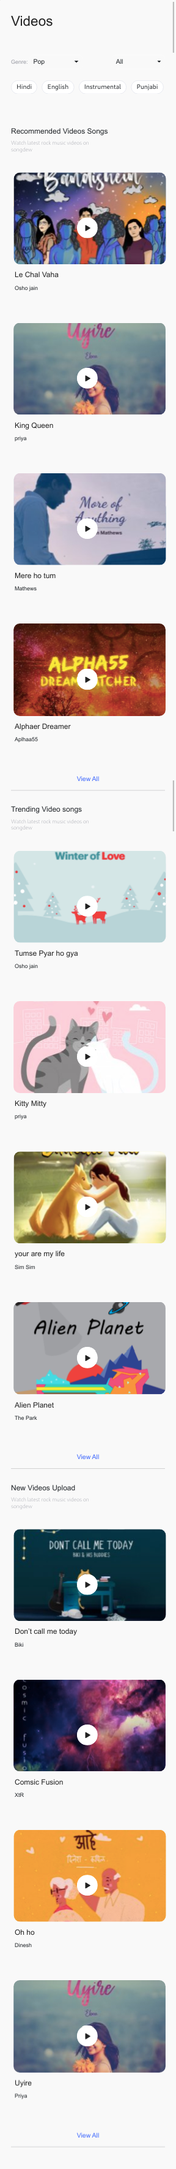
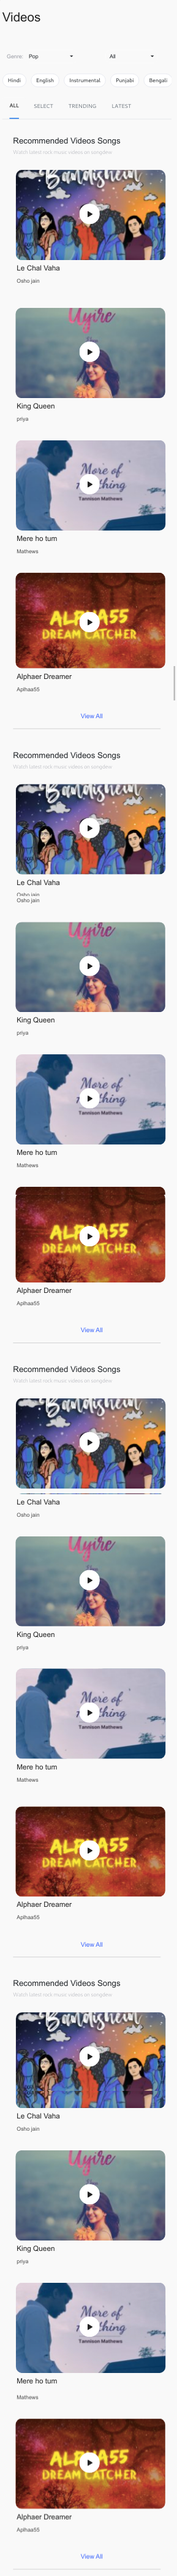
nav and images

diff --git a/Task-2/css/styles.css b/Task-2/css/styles.css
@@ -36,21 +36,15 @@ p.genre {
 // margin-right */
 
 span.bg-light {
-  background-color: #eff1f4 !important;
+  background-color: rgba(255, 255, 255, 1) !important;
   font-weight: 400;
   margin-right: 10px;
   padding: 5px 11px;
+  line-height: 18px;
   border: 1px solid #e0e3eb;
 }
 
-span.nav {
-  background-color: white !important;
-  font-weight: 400;
-  font-size: 14px;
-  line-height: 18px;
-}
-
-span.nav :hover {
+span.bg-light :hover {
   background-color: #eff1f4;
 }
 
@@ -201,7 +195,6 @@ p.color {
 a.nav-link.active {
   border: none;
   background-color: #f9f9f9 !important;
-  /* font-weight: bolder; */
   color: black !important;
 }
 
@@ -234,6 +227,9 @@ div.sort2 {
   display: none !important;
 }
 
+a.nav-link {
+  color: rgba(34, 34, 34, 1);
+}
 /* // Small devices (landscape phones, 576px and up) */
 @media (min-width: 300px) {
   /* body {
@@ -271,6 +267,21 @@ div.sort2 {
   button.view {
     font-weight: 500;
     font-size: 14px;
+  }
+
+  /* NAV */
+  a.nav-link {
+    font-size: 12px;
+  }
+  span.bg-light {
+    font-size: 12px;
+  }
+  a.dropdown-item {
+    font-size: 12px;
+    padding-left: 8px;
+  }
+  button.all {
+    font-size: 12px;
   }
 }
 
@@ -311,6 +322,21 @@ div.sort2 {
     font-weight: 500;
     font-size: 12px;
   }
+
+  /* NAV */
+  a.nav-link {
+    font-size: 14px;
+  }
+  span.bg-light {
+    font-size: 11px;
+  }
+  a.dropdown-item {
+    font-size: 11px;
+    padding-left: 8px;
+  }
+  button.all {
+    font-size: 11px;
+  }
 }
 
 /* // Large devices (desktops, 992px and up) */
@@ -346,6 +372,21 @@ div.sort2 {
   }
   button.view {
     font-weight: 500;
+    font-size: 12px;
+  }
+
+  /* NAV */
+  a.nav-link {
+    font-size: 14px;
+  }
+  span.bg-light {
+    font-size: 12px;
+  }
+  a.dropdown-item {
+    font-size: 12px;
+    padding-left: 8px;
+  }
+  button.all {
     font-size: 12px;
   }
 }

diff --git a/Task-2/index.html b/Task-2/index.html
@@ -19,16 +19,10 @@
   <div class="container main-block">
 
     <div class="text-start">
-      <h3 class="video-text my-1">Videos</h3>
+      <h3 class="video-text my-1 mt-3">Videos</h3>
     </div>
 
-
-
-
-
-
     <div class="row mt-4">
-
       <div class="col-10 tab1">
         <ul class="nav nav-tabs">
           <li class="nav-item">
@@ -49,7 +43,7 @@
 
       <div class="col-2">
         <div class="d-flex align-items-center genre-box">
-          
+
           <div class="sort d-flex align-items-center">
             <div>
               <p class="genre">Genre: </p>
